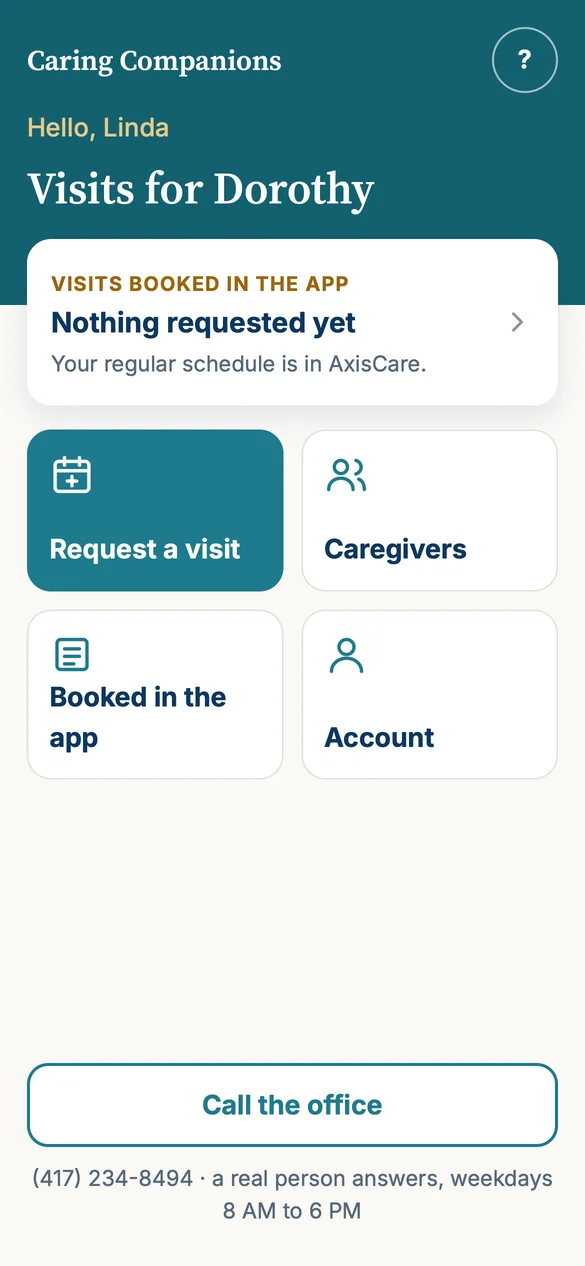
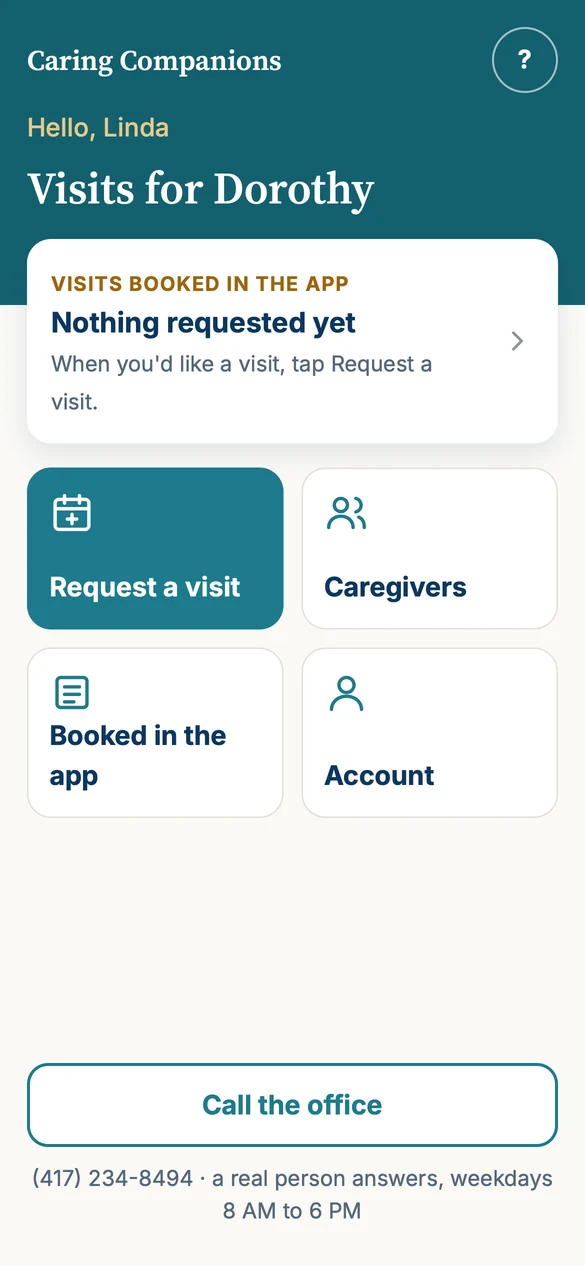
App screens from the app-only wording (cc-family-app PR 1): 'Pick a day for this visit...' and 'When you'd like a visit, tap Request a visit'

Changed region(s): [[0.0308, 0.2773, 0.7385, 0.6469], [0.5538, 0.3389, 0.8, 0.6469], [0.8615, 0.2464, 0.8923, 0.2773]]

diff --git a/assets/app-tour.js b/assets/app-tour.js
@@ -6,7 +6,7 @@
   'use strict';
   var SCREENS = [
     { img: '1-home', t: 'Your home screen', d: 'Sign in with the email we have on file. Tap Request a visit.' },
-    { img: '2-day', t: 'Pick a day', d: 'Any day of the week, 7 AM to 6 PM, at least 2 hours ahead and up to 60 days out.' },
+    { img: '2-day', t: 'Pick a day', d: 'Any day of the week, 7 AM to 6 PM, at least 2 hours ahead and up to 60 days out. Use it on its own, or on top of a regular schedule.' },
     { img: '3-time', t: 'Pick the time', d: 'A set time, or a flexible window when the caregiver picks the start. 2 hours or more.' },
     { img: '4-help', t: 'What would help', d: 'Pick what you’d like help with, and add a note for the caregiver.' },
     { img: '5-who', t: 'Who you’d like', d: 'Ask for a caregiver who knows your loved one first, or whoever is available.' },

diff --git a/index.html b/index.html
@@ -632,7 +632,7 @@
 <script src="assets/site.js"></script>
 <script src="assets/cara-widget.js"></script>
 <script src="assets/site-events.js"></script>
-<script src="/assets/app-tour.js?v=1" defer></script>
+<script src="/assets/app-tour.js?v=2" defer></script>
 <script src="/assets/accessibility.js" defer></script>
 </body>
 </html>

diff --git a/app.html b/app.html
@@ -222,7 +222,7 @@
   </div>
 </div></section>
 </main>
-<script src="/assets/app-tour.js?v=1" defer></script>
+<script src="/assets/app-tour.js?v=2" defer></script>
 <script src="/assets/forms.js" defer></script>
 <script src="/assets/app-lead.js?v=1" defer></script>
 
